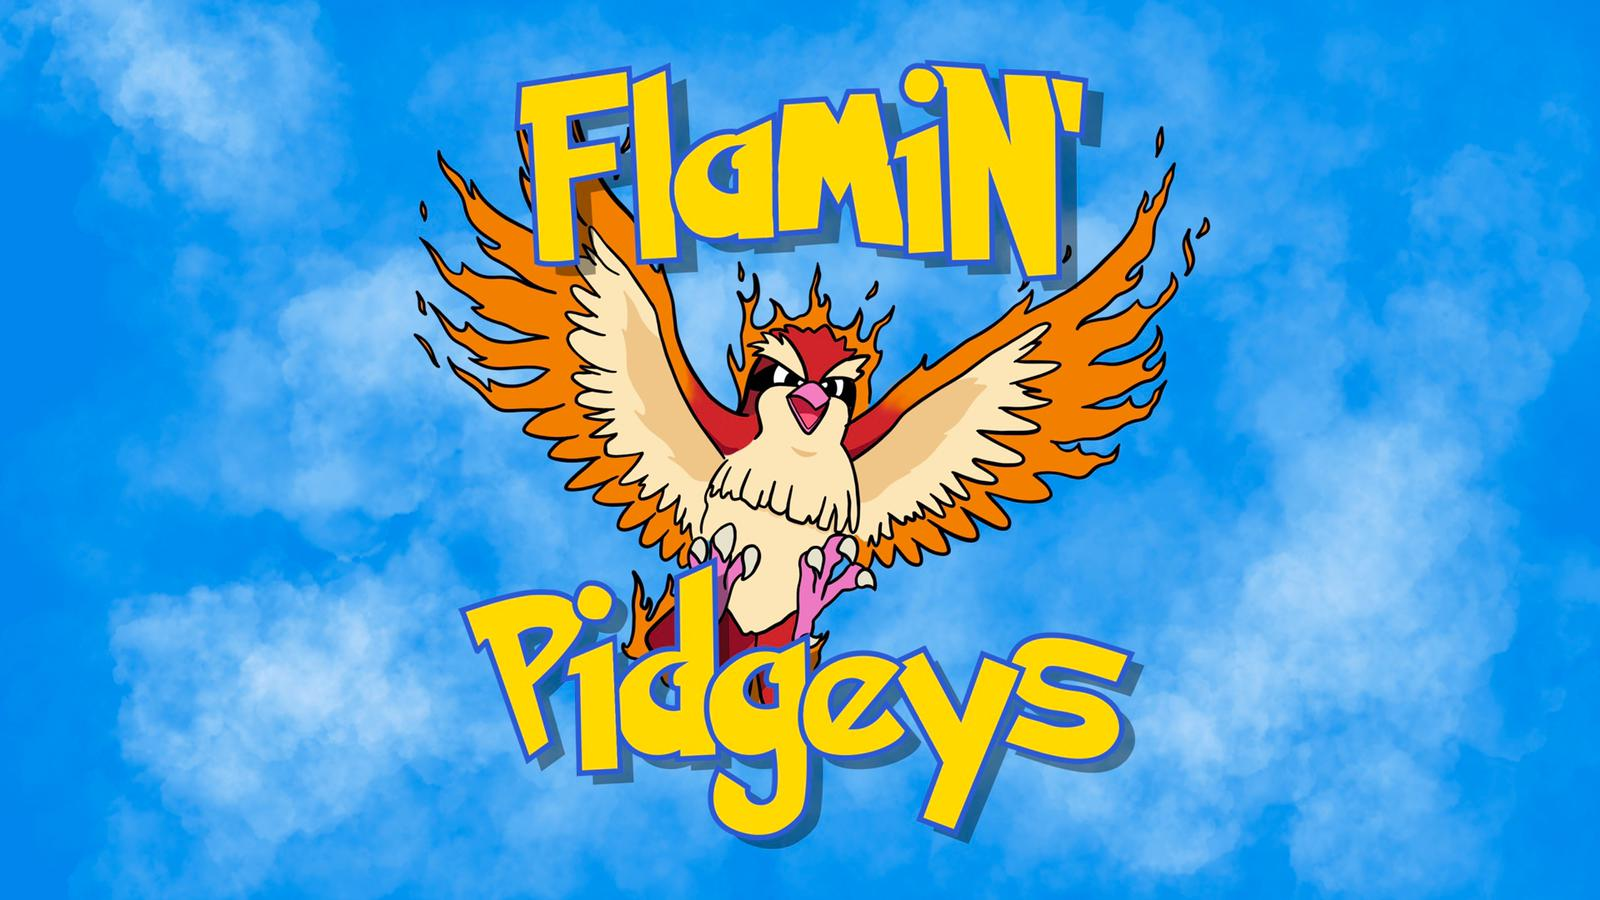
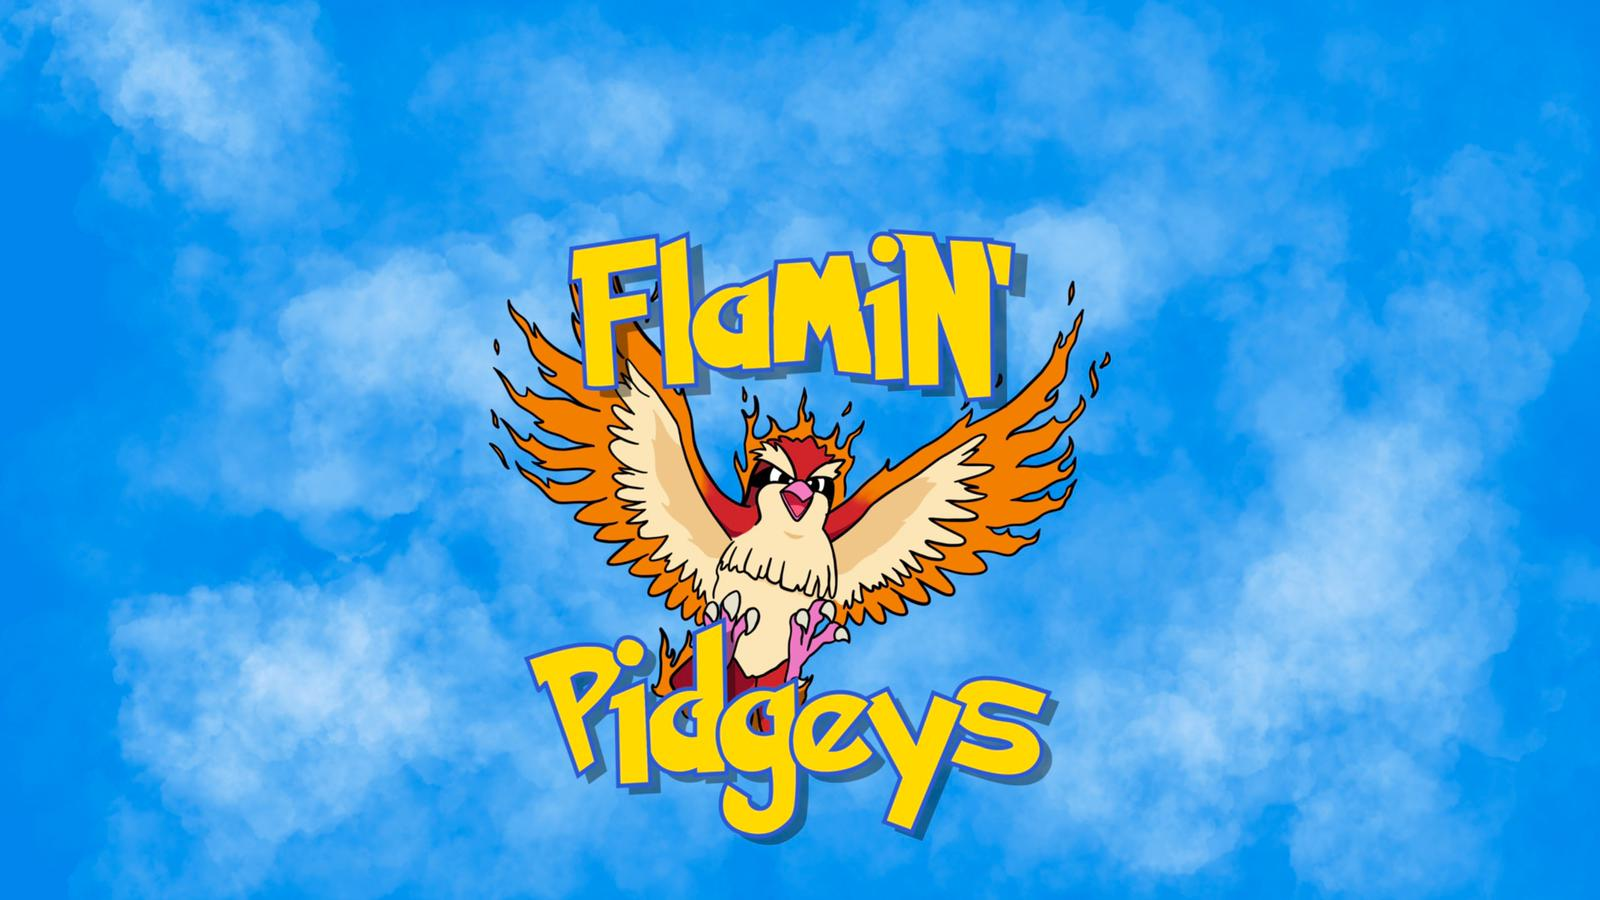
added new home bg image and started getting read for deployment

Changed region(s): [[0.25, 0.0622, 0.75, 0.9644], [0.25, 0.1556, 0.2812, 0.1867]]

diff --git a/templates/allauth/account/login.html b/templates/allauth/account/login.html
@@ -38,7 +38,7 @@ for a {{ site_name }} account and sign in below:{% endblocktrans %}</p>
   {% csrf_token %}
   {{ form|crispy }}
   {% if redirect_field_value %}
-  <input type="hidden" name="{{ redirect_field_name }}" value="{{ redirect_field_value }}" />
+   <input type="hidden" name="{{ redirect_field_name }}" value="{{ redirect_field_value }}" />
   {% endif %}
   <div class="btn text-right bg-yellow text-black">
     <button type="submit" class="primaryAction btn bg-yellow text-black">

diff --git a/pokemon_card_shop/settings.py b/pokemon_card_shop/settings.py
@@ -11,7 +11,9 @@ https://docs.djangoproject.com/en/3.1/ref/settings/
 """
 
 import os
+import dj_database_url
 from pathlib import Path
+
 
 # Build paths inside the project like this: BASE_DIR / 'subdir'.
 BASE_DIR = Path(__file__).resolve().parent.parent
@@ -122,11 +124,15 @@ WSGI_APPLICATION = 'pokemon_card_shop.wsgi.application'
 # Database
 # https://docs.djangoproject.com/en/3.1/ref/settings/#databases
 
+# DATABASES = {
+#    'default': {
+#        'ENGINE': 'django.db.backends.sqlite3',
+#        'NAME': BASE_DIR / 'db.sqlite3',
+#    }
+#}
+
 DATABASES = {
-    'default': {
-        'ENGINE': 'django.db.backends.sqlite3',
-        'NAME': BASE_DIR / 'db.sqlite3',
-    }
+    'default': dj_database_url.parse(postgres://pbodxpnmtrudsp:f3e2cc18b6735ab7c84662eb198fe6a63797d2cb484f22230782f598871a119f@ec2-54-228-209-117.eu-west-1.compute.amazonaws.com:5432/d2g54lvr3j2e6u)
 }
 
 
